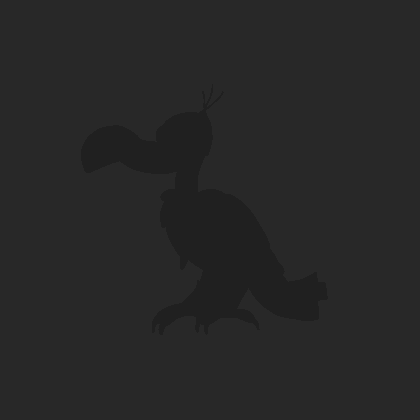
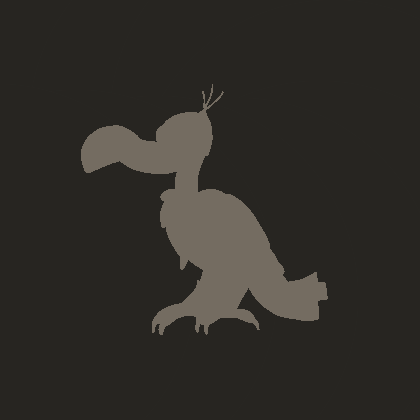
changement de visuel

Changed region(s): [[0.1857, 0.2167, 0.8048, 0.8048]]

diff --git a/JeuDeLaMort/JeuDeLaMort/static/jdm/style-jdm.css b/JeuDeLaMort/JeuDeLaMort/static/jdm/style-jdm.css
@@ -1,13 +1,15 @@
 {% load static %}
 
 @import url('https://fonts.googleapis.com/css2?family=Permanent+Marker&display=swap');
+@import url('https://fonts.googleapis.com/css2?family=Rye&display=swap');
 
 html, body {
-    font-family: 'Permanent Marker', cursive;
+    font-family: 'Rye', cursive;
 }
 
 
 /*
+'Permanent Marker', cursive;
 rgb(248,148,3) orange
 rgb(40,40,40) gris foncé
 rgb(217,217,217) gris clair
@@ -23,18 +25,18 @@ div{
 
 
 h1 {
-    color: rgb(248,191,3);
-    padding: 2rem 1rem 1.5rem 1rem;
+    color: rgb(144, 150, 144);
+    padding: 4rem 1rem 1.5rem 1rem;
     font-size: 2.2em;
-    text-shadow: rgba(0, 0, 0, 0.9) 1px 3px 1px;
+    text-shadow: rgba(0, 0, 0, 0.9) 1px 3px 2px;
 }
 
 
 h2 {
-    color: rgb(248,148,3);
-    text-shadow: rgba(0, 0, 0, 0.9) 1px 3px 1px;
+    color: rgb(144, 150, 144);
+    text-shadow: rgba(0, 0, 0, 0.9) 1px 3px 2px;
     font-size: 1.7rem;
-    padding: 2rem 1rem 1rem 1rem;
+    padding: 3rem 1rem 1rem 1rem;
 }
 
 #lien {
@@ -46,11 +48,12 @@ h2 {
 }
 
 h3 {
-    color: rgb(248,191,3);
+    color: rgb(144, 150, 144);
     font-size: 1.4rem;
     padding: 1rem 1rem 0.5rem 1rem;
-    text-shadow: rgba(0, 0, 0, 0.9) 1px 3px 1px;
+    text-shadow: rgba(0, 0, 0, 0.9) 1px 3px 2px;
 }
+
 
 li {
     padding: 1rem;
@@ -69,7 +72,7 @@ li {
 }
 
 .titre_bloc {
-    color: rgb(248,148,3);
+    color: rgb(132, 140, 148);
     font-size: 1.3rem;
     padding: 0.5rem 1rem 0.5rem 1rem;
 }
@@ -99,32 +102,27 @@ body {
     background-image: url("/static/jdm/fond.png");
     background-attachment: fixed;
     color: rgb(217,217,217);
-    text-shadow: rgba(0, 0, 0, 1) 1px 3px 1px;
+    text-shadow: rgba(0, 0, 0, 0.9) 1px 3px 2px;
     font-size: 1.2rem;
     text-align: center;
 }
 
 
 header {
-    background: url("/static/jdm/texture.jpg") no-repeat content-box;  /* -color: #ae6b13;*/
+    /*background: url("/static/jdm/texture.jpg") no-repeat content-box;   */
     background-size: cover;
-    background-color: #8E6A40;
+    background-color: rgb(39, 37, 33);
     margin: 4rem 3rem 0 3rem;
     height: 200px;
-    border: 2px solid rgb(248,191,3);
+    box-shadow: rgba(0, 0, 0, 0.8) 1px 5px 15px;
 }
 
 .menu {
-    color: rgb(217,217,217);
     align-content: center;
-    font-size: 1.5rem;
-    text-shadow: rgba(0, 0, 0, 1) 1px 3px 1px;
+    font-size: 2rem;
+    text-shadow: rgba(0, 0, 0, 0.9) 1px 3px 2px;
 }
 
-.menu:hover {
-    color: red;
-    transition: 0.5s ease;
-}
 
 .connect {
     position: absolute;
@@ -169,14 +167,6 @@ header {
     box-shadow: rgba(0, 0, 0, 0.8) 1px 5px 15px;
 }
 
-
-
-.description{
-    font-style: italic;
-    padding: 0.5rem;
-    color: rgb(248,148,3);
-}
-
 .bouton {
     margin: 2rem;
     background-color: #f89403;
@@ -194,18 +184,18 @@ header {
 }
 
 a:link {
-    color: rgb(248,191,3);
+    color: rgb(240,240,240);
     text-decoration: none;
-    text-shadow: rgba(0, 0, 0, 0.8) 1px 3px 1px;
+    text-shadow: rgba(0, 0, 0, 0.9) 1px 3px 2px;
 }
 
 a:visited {
-    color: rgb(248,191,3);
+    color: rgb(240,240,240);
     text-decoration: none;
 }
 
 a:hover {
-    color: rgb(240,240,240);
+    color: rgb(144, 150, 144);
     text-decoration: none;
     transition: 0.5s ease;
 }
@@ -222,7 +212,7 @@ a:hover {
   left: 0;
   right: 0;
   background-color : Gainsboro;
-  color: rgb(248,148,3);
+  color: rgb(132, 140, 148);
   opacity: 0.9;
   overflow: hidden;
   width: auto;
@@ -276,7 +266,7 @@ a:hover {
 .text {
   text-shadow: rgba(0, 0, 0, 0) 1px 5px 5px;
   text-align: center;
-  font-size: 1rem;
+  font-size: 0.9rem;
   position: absolute;
   overflow: hidden;
   top: 50%;
@@ -290,7 +280,7 @@ a:hover {
     margin: 0.5rem 3rem 0 3rem;
     padding: 0.5rem;
     background-color: red;
-    text-shadow: rgba(0, 0, 0, 0.8) 1px 3px 1px;
+    text-shadow: rgba(0, 0, 0, 0.9) 1px 3px 2px;
 }
 
 .connexion {
@@ -310,7 +300,7 @@ a:hover {
 .pied {
     display: inline-flex;
     flex-direction: row;
-    padding: 10rem 0 0 0;
+    padding: 5rem 0 0 0;
     font-size: 1rem;
 }
 
@@ -318,17 +308,17 @@ table {
     margin: 3rem;
     justify-content: center;
     color: rgb(217,217,217);
-    text-shadow: rgba(0, 0, 0, 1) 1px 3px 1px;
+    text-shadow: rgba(0, 0, 0, 0.9) 1px 3px 2px;
     border-collapse: collapse;
     table-layout: fixed;
     box-shadow: rgba(0, 0, 0, 0.8) 0px 5px 10px;
 }
 
 thead th {
-   color: red;
+   color: rgb(144, 150, 144);
    font-size: 1.9rem;
    text-align: center;
-   background-color: rgba(25,25,25, 1);
+   background-color: rgba(39,37,33, 0.9);
 }
 
 thead th:nth-child(1) {
@@ -358,14 +348,14 @@ tbody td {
 }
 
 tbody tr:nth-child(odd) {
-  background-color: rgba(40,40,40, 0);
+  background-color: rgb(25,25,25, 0.7);
 }
 
 tbody tr:nth-child(even) {
-  background-color: rgb(25,25,25, 0.7);
+  background-color: rgba(40,40,40, 0);
 }
 
 .classement_user {
     color: rgb(217,217,217);
-    background-color: red;
+    background-color: rgb(132, 140, 148);
 }

diff --git a/JeuDeLaMort/JeuDeLaMort/templates/jdm/candidat_detail.html b/JeuDeLaMort/JeuDeLaMort/templates/jdm/candidat_detail.html
@@ -16,7 +16,7 @@
 
 {% if candidat.DDD %}
 <h3 style="color: rgb(217,217,217)">{{ candidat.DDN }} - {{ candidat.DDD }}</h3>
-<div class="description">{{ candidat.description|capfirst }}</div>
+<div style="padding: 2rem">{{ candidat.description|capfirst }}</div>
 
     {% if paris|length > 0 %}
 <h2>Qui avait désigné ce candidat ?</h2>
@@ -28,9 +28,9 @@
     {% endif %}
 
 {% else %}
-<div class="description">{{ candidat.description|capfirst }}</div>
+<div style="padding: 2rem">{{ candidat.description|capfirst }}</div>
 <div>Date de naissance : {{ candidat.DDN }} ({{ candidat.calcul_age }} ans)</div>
-<div style="display: inline">Ce candidat peut rapporter <span style="color: #f89403">{{ candidat.points }} point{{ candidat.points|pluralize }}</span>.</div>
+<div style="display: inline">Ce candidat peut rapporter <span style="color: rgb(144, 150, 144)">{{ candidat.points }} point{{ candidat.points|pluralize }}</span>.</div>
     {% if paris|length > 0 %}
 <h2>Qui a désigné ce candidat ?</h2>
 <div>

diff --git a/JeuDeLaMort/JeuDeLaMort/templates/jdm/base.html b/JeuDeLaMort/JeuDeLaMort/templates/jdm/base.html
@@ -17,7 +17,7 @@
         {% if user.is_authenticated %}
         <a href="{% url 'logout' %}">Déconnexion</a>
         {% else %}
-        <div style="flex-direction: row; justify-content: right"><a href="{% url 'login' %}">Connexion</a> | <a href="{% url 'register_user' %}">Inscription</a></div>
+        <div style="flex-direction: row; justify-content: right; "><a href="{% url 'login' %}">Connexion</a> | <a href="{% url 'register_user' %}">Inscription</a></div>
         {% endif %}
         </div>
 
@@ -64,7 +64,7 @@
 
 </main>
 <footer>
-<div class="pied">Source des données :&nbsp;<a href="https://fr.wikipedia.org/wiki/Cynisme" target="_blank"><div style="color: rgb(248,191,3)">Wikipedia</div></a></div>
+<div class="pied">Source des données :&nbsp;<a href="https://fr.wikipedia.org/wiki/Cynisme" target="_blank"><div style="color: rgb(144, 150, 144)">Wikipedia</div></a></div>
 <div>©Victor Crézé - 2023</div>
 </footer>
 

diff --git a/JeuDeLaMort/JeuDeLaMort/templates/jdm/index.html b/JeuDeLaMort/JeuDeLaMort/templates/jdm/index.html
@@ -5,7 +5,7 @@
 <div class="fond">
     <p>Le Jeu de la Mort a pour fonction d'expier les sentiments douloureux par le mauvais goût.</p>
     <p>Le principe est simple : nommer des personnalités qui passeront l'arme à gauche dans l'année.</p>
-    <p>Chaque joueur désigne 10 candidats à la mort pour l'année civile à venir.</p>
+    <p>Chaque joueur désigne 10 candidats à la mort pour l'année civile en cours.</p>
     <p>Lors du décès d'un candidat, le joueur l'ayant désigné peut sélectionner en remplacement une nouvelle personne.</p>
     <p>Le nombre de points que rapporte le décès d'un candidat est indexé sur son âge au moment de son décès.</p>
 </div>

diff --git a/JeuDeLaMort/JeuDeLaMort/templates/jdm/resume.html b/JeuDeLaMort/JeuDeLaMort/templates/jdm/resume.html
@@ -23,7 +23,7 @@
                         <p>{{ x.nom }}</p>
                         <p>{{ x.calcul_age }} ans</p>
                         <p>{{ x.points }} point{{ x.points|pluralize }}</p>
-                        <p>{{ y|length }} nomination{{ y|length|pluralize }}</p>
+                        <p style="font-size: 0.7rem">{{ y|length }} nomination{{ y|length|pluralize }}</p>
                     </div>
                 </div>
         </a>

diff --git a/JeuDeLaMort/JeuDeLaMort/templates/jdm/change_password.html b/JeuDeLaMort/JeuDeLaMort/templates/jdm/change_password.html
@@ -1,0 +1,18 @@
+{% extends "base.html" %}
+{% block content %}
+
+{% if validlink %}
+
+<h1>Changer de mot de passe</h1>
+<form method="POST">
+  {% csrf_token %}
+  {{ form.as_p }}
+  <input type="submit" value="Changer de mot de passe">
+</form>
+
+{% else %}
+
+<p>The password reset link was invalid, possibly because it has already been used. Please request a new password reset.</p>
+
+{% endif %}
+{% endblock %}

diff --git a/JeuDeLaMort/JeuDeLaMort/templates/jdm/favoris.html b/JeuDeLaMort/JeuDeLaMort/templates/jdm/favoris.html
@@ -13,7 +13,7 @@
                 <div class="overlay">
                     <div class="text">
                         <p>{{ candidat.nom }}</p>
-                        <p>{{ nb_votes }} votes</p>
+                        <p style="font-size: 0.7rem">{{ nb_votes }} nominations</p>
                     </div>
                 </div>
         </a>

diff --git a/JeuDeLaMort/JeuDeLaMort/templates/jdm/classement.html b/JeuDeLaMort/JeuDeLaMort/templates/jdm/classement.html
@@ -52,7 +52,7 @@
 <div>Suivez ici vos amis. Il ne faut pas rester seul.e.</div>
 {% endif %}
 
-<a href="{% url 'recherche-amis' %}"><h2 id="lien">Ajouter un ami</h2></a>
+<h2><a href="{% url 'recherche-amis' %}">Ajouter un ami</a></h2>
 
 {% if en_devenir|length > 0 %}
 <h2>Ajouter quelqu'un qui vous suit :</h2>

diff --git a/JeuDeLaMort/JeuDeLaMort/templates/jdm/salle_user.html b/JeuDeLaMort/JeuDeLaMort/templates/jdm/salle_user.html
@@ -96,6 +96,6 @@
     </div>
 {% endif %}
 
-<a href="{% url 'retirer-ami' joueur.id %}"><h3>Retirer {{ joueur.username }} de mon cercle d'amis</h3></a>
+<a href="{% url 'retirer-ami' joueur.id %}"><h2>Retirer {{ joueur.username }} de mon cercle d'amis</h2></a>
 
 {% endblock %}

diff --git a/JeuDeLaMort/JeuDeLaMort/templates/jdm/salle_attente.html b/JeuDeLaMort/JeuDeLaMort/templates/jdm/salle_attente.html
@@ -3,7 +3,6 @@
 {% load static %}
 
 <h1 id="joueur">{{ joueur.username }}</h1>
-<h2>Ma salle d'attente</h2>
 
 {% if rap > 0 %}
 <div>Encore {{ rap }} candidat{{ rap|pluralize }} à nommer</div>

diff --git a/JeuDeLaMort/JeuDeLaMort/urls.py b/JeuDeLaMort/JeuDeLaMort/urls.py
@@ -1,6 +1,6 @@
 from django.urls import path, include
 from django.contrib import auth, admin
-from .views import index, resume, salle_attente, candidat_create, candidat_detail, candidat_valide, salle_user, classement, favoris, nouvel_ami, recherche_amis, retirer_ami, maj
+from .views import index, resume, salle_attente, candidat_create, candidat_detail, candidat_valide, salle_user, classement, favoris, nouvel_ami, recherche_amis, retirer_ami, change_password, maj
 
 urlpatterns = [
     path('', index, name="jdm-index"),
@@ -19,4 +19,5 @@ urlpatterns = [
     path('admin/', admin.site.urls),
     path('retirer/<int:id>', retirer_ami, name='retirer-ami'),
     path('maj/', maj, name='maj'),
+    path('change_password/', change_password, name='change-password')
 ]

diff --git a/JeuDeLaMort/JeuDeLaMort/views.py b/JeuDeLaMort/JeuDeLaMort/views.py
@@ -415,3 +415,6 @@ def maj(request):
     envoyer_mail()
     return redirect('resume')
 
+
+def change_password(request):
+    pass
